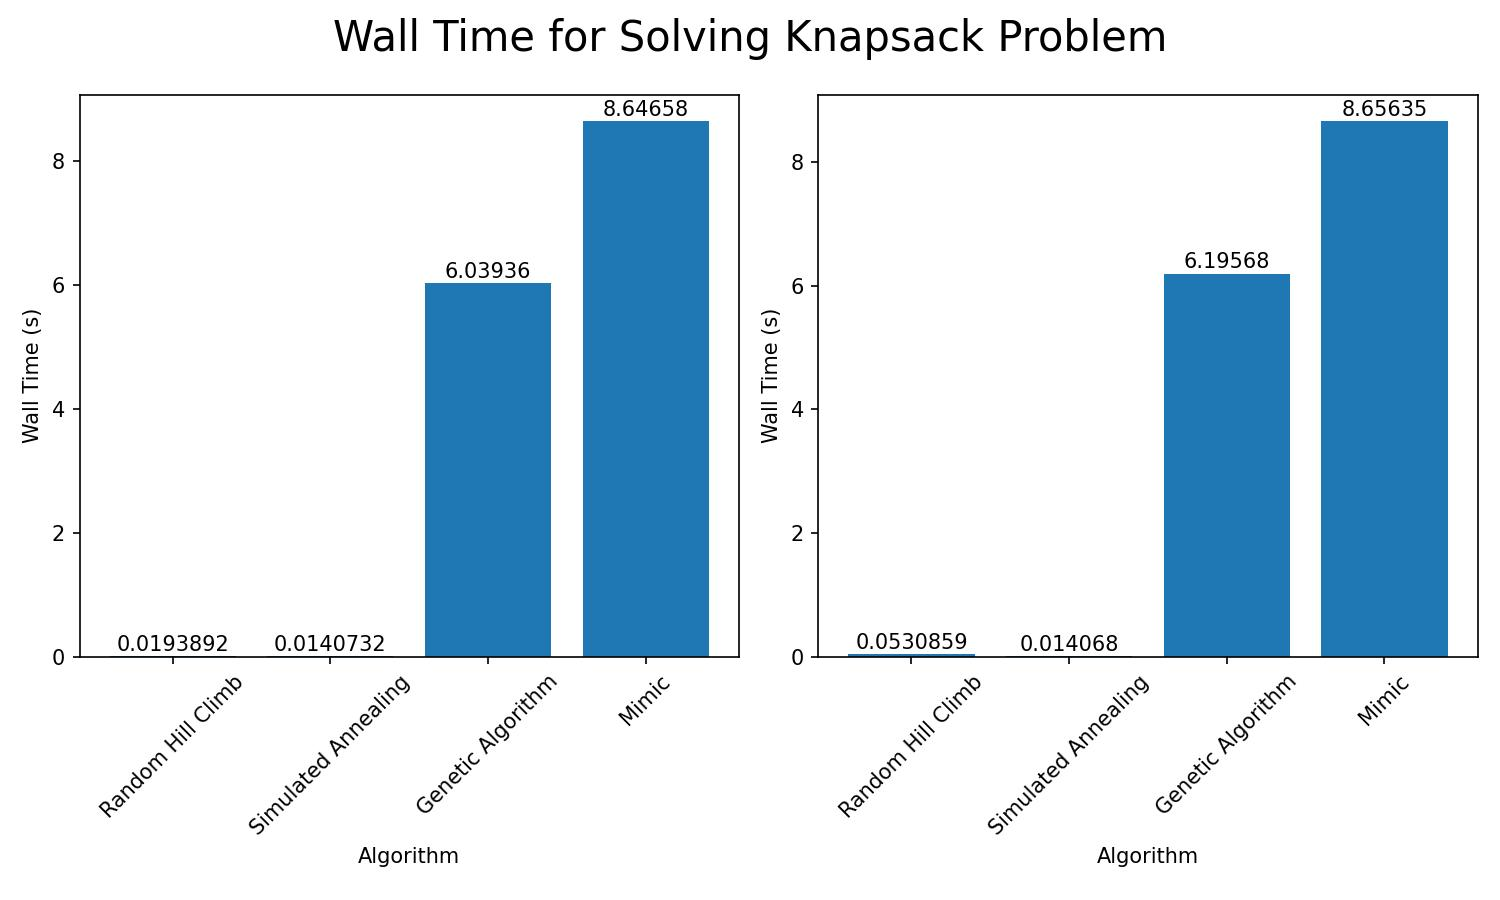
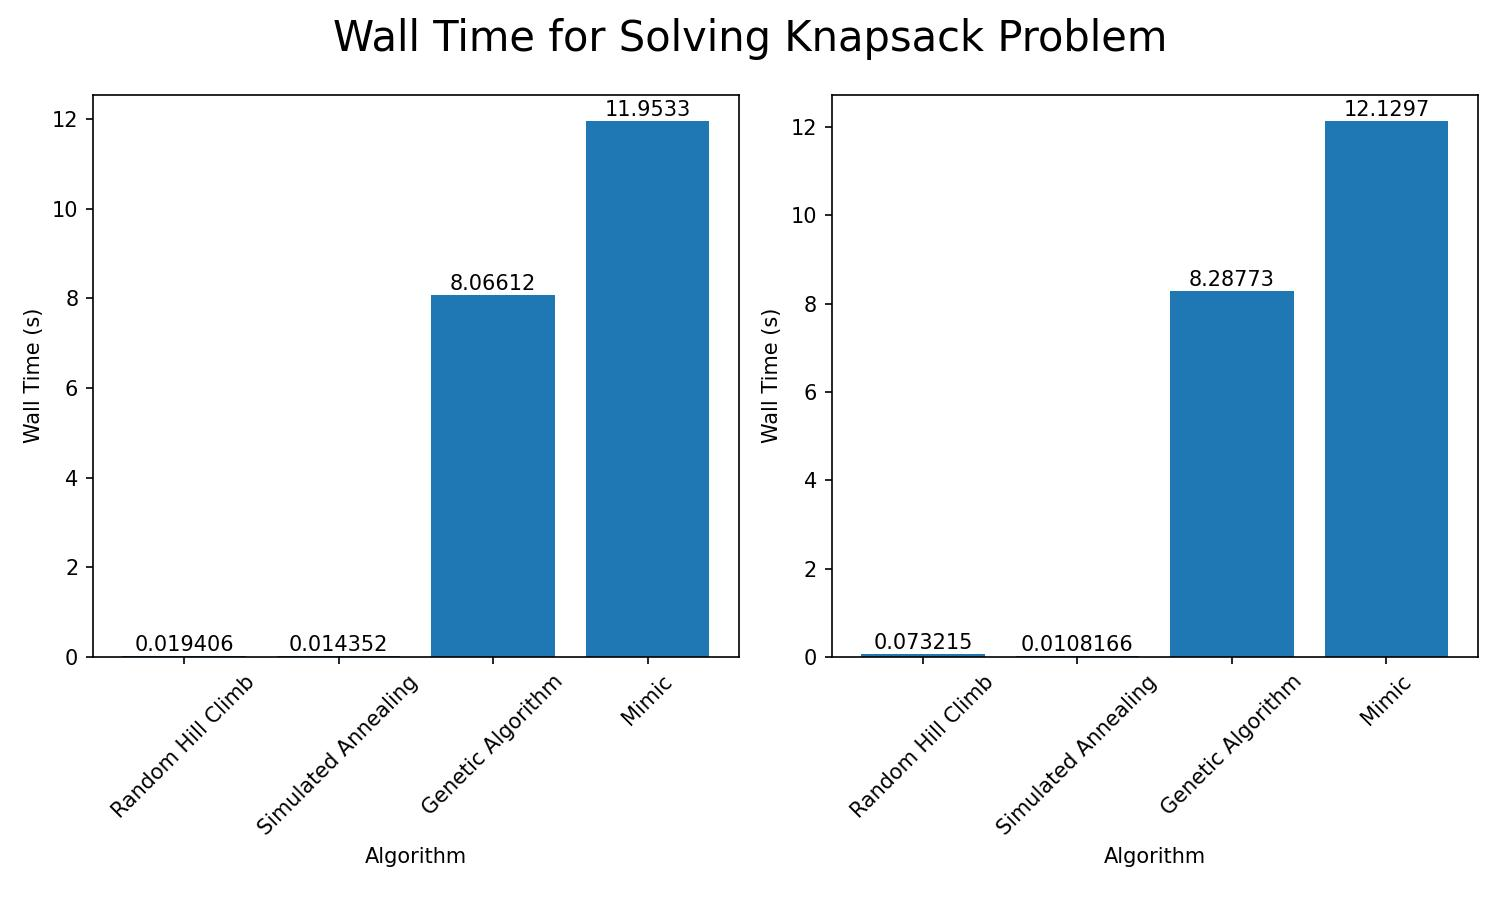
update image

diff --git a/randomized_optimization/src/main.py b/randomized_optimization/src/main.py
@@ -1,18 +1,26 @@
 import time
-from collections import defaultdict
 
 import matplotlib.pyplot as plt
 from sklearn.metrics import accuracy_score
 from sklearn.model_selection import train_test_split
-from src.config.config import (ALGORITHM_MAPPING, NN_OPT_ALGORITHMS,
-                               PROBLEM_PARAMS_MAPPING, RANDOM_SEED)
+from src.config.config import (
+    ALGORITHM_MAPPING,
+    NN_OPT_ALGORITHMS,
+    PROBLEM_PARAMS_MAPPING,
+    RANDOM_SEED,
+)
 from src.data.nba_dataset import NBADataset
-from src.models.discrete_problems import (knapsack_problem,
-                                          multi_queens_problem, solver,
-                                          traveling_salesman_problem)
+from src.models.discrete_problems import (
+    knapsack_problem,
+    multi_queens_problem,
+    solver,
+    traveling_salesman_problem,
+)
 from src.models.neural_network import feature_transformer, neural_network
-from src.visualization.visualize import (plot_discrete_problem_fitness_curves,
-                                         plot_walltime_chart)
+from src.visualization.visualize import (
+    plot_discrete_problem_fitness_curves,
+    plot_walltime_chart,
+)
 
 
 def discrete_problem_analysis(problem_name):
@@ -72,7 +80,8 @@ def neural_network_analysis():
     """
     walltime_map = {}
     fitness_score_map = {}
-    accuracy_score_map = defaultdict(dict)
+    train_accuracy_score_map = {}
+    test_accuracy_score_map = {}
 
     # get training and test sets
     nba_dataset = NBADataset()
@@ -96,8 +105,8 @@ def neural_network_analysis():
         # get the accuracy score on test
         y_pred_train = nn.predict(X_train)
         y_pred_test = nn.predict(X_test)
-        accuracy_score_map[algorithm]["train"] = accuracy_score(y_train, y_pred_train)
-        accuracy_score_map[algorithm]["test"] = accuracy_score(y_test, y_pred_test)
+        train_accuracy_score_map[algorithm] = accuracy_score(y_train, y_pred_train)
+        test_accuracy_score_map[algorithm] = accuracy_score(y_test, y_pred_test)
 
     breakpoint()
 

diff --git a/randomized_optimization/src/config/config.py b/randomized_optimization/src/config/config.py
@@ -12,19 +12,19 @@ ALGORITHM_HYPERPARAMS_DEFAULT_MAPPING = {  # type: ignore
         schedule=mlrose.ExpDecay(exp_const=0.005), max_attempts=500, max_iters=1000
     ),
     "Genetic Algorithm": dict(
-        pop_size=500, mutation_prob=0.2, max_attempts=500, max_iters=1000
+        pop_size=500, mutation_prob=0.2, max_attempts=700, max_iters=700
     ),
-    "Mimic": dict(pop_size=500, keep_pct=0.2, max_attempts=500, max_iters=1000),
+    "Mimic": dict(pop_size=500, keep_pct=0.2, max_attempts=700, max_iters=700),
 }
 ALGORITHM_HYPERPARAMS_TUNED_MAPPING = {  # type: ignore
-    "Random Hill Climb": dict(restarts=10, max_attempts=500, max_iters=1000),
+    "Random Hill Climb": dict(restarts=10, max_attempts=700, max_iters=700),
     "Simulated Annealing": dict(
-        schedule=mlrose.ExpDecay(exp_const=0.05), max_attempts=500, max_iters=1000
+        schedule=mlrose.ExpDecay(exp_const=0.05), max_attempts=700, max_iters=700
     ),
     "Genetic Algorithm": dict(
-        pop_size=500, mutation_prob=0.5, max_attempts=500, max_iters=1000
+        pop_size=500, mutation_prob=0.5, max_attempts=700, max_iters=700
     ),
-    "Mimic": dict(pop_size=500, keep_pct=0.5, max_attempts=500, max_iters=1000),
+    "Mimic": dict(pop_size=500, keep_pct=0.5, max_attempts=700, max_iters=700),
 }
 
 PROBLEM_PARAMS_MAPPING = {
